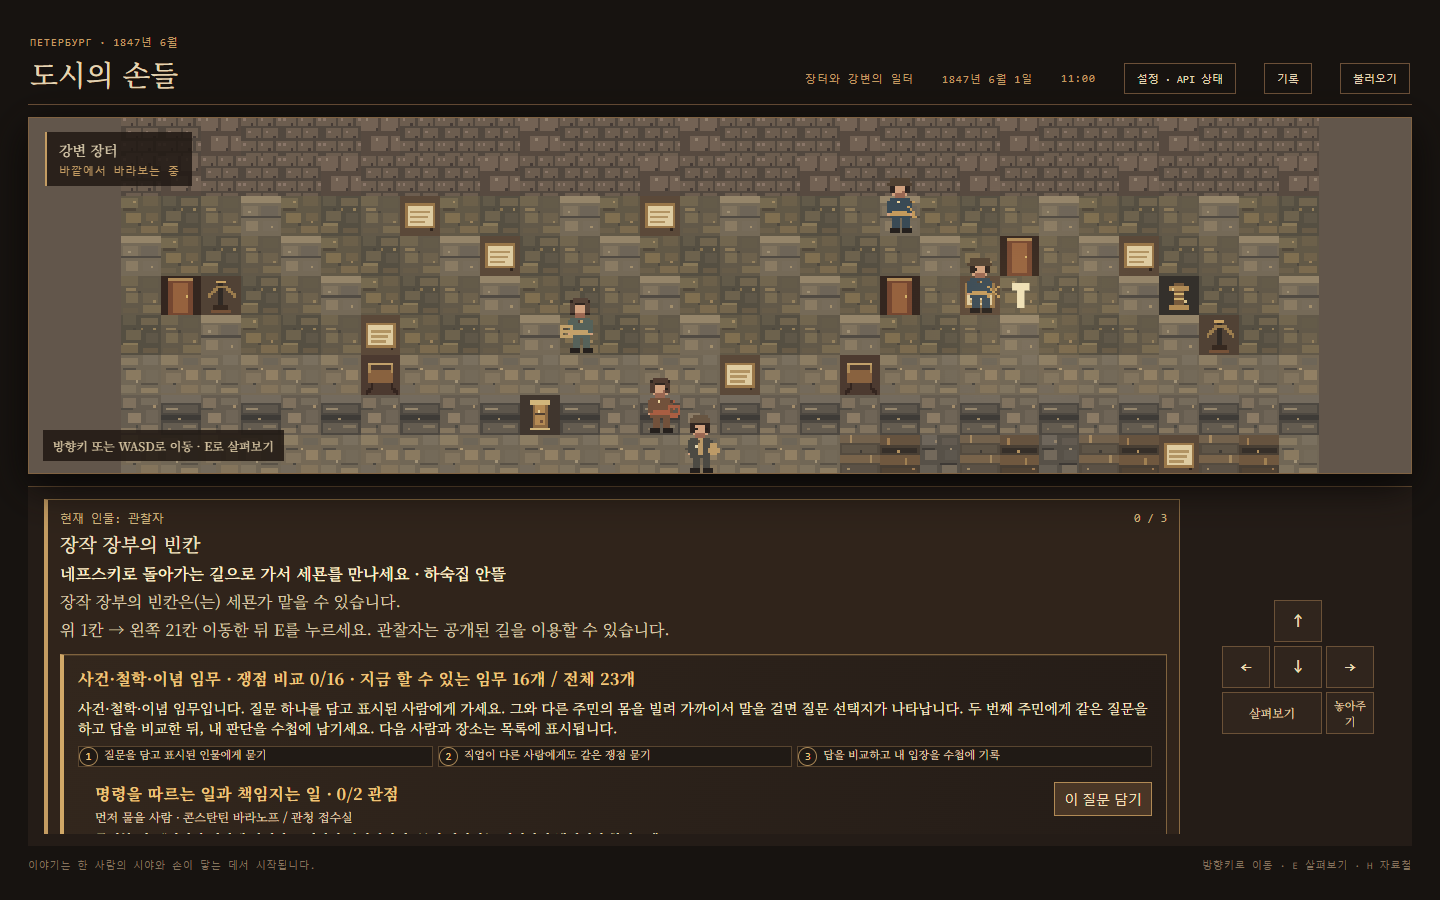
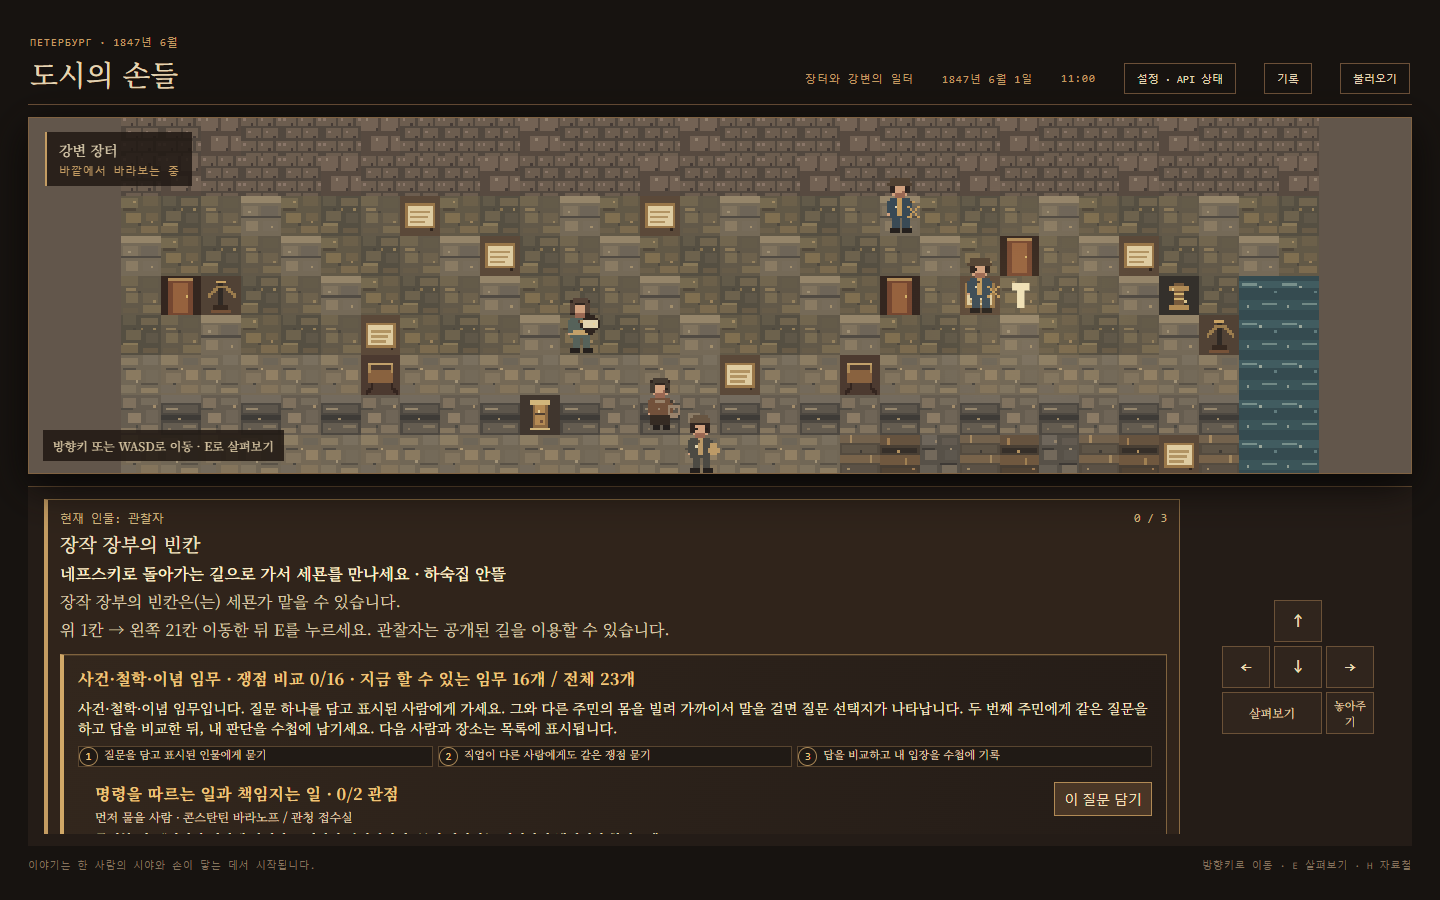
Improve V36 resident role readability

Changed region(s): [[0.8438, 0.28, 0.9375, 0.5289], [0.4375, 0.4356, 0.4688, 0.4978], [0.375, 0.3422, 0.4375, 0.3733]]

diff --git a/rpg/engine/renderer.js b/rpg/engine/renderer.js
@@ -112,7 +112,7 @@ export function createRenderer(canvas, assets) {
       const active = state.player.embodiment === card.id;
       const frameCount = atlas.framesPerDirection ?? 3, frameWidth = atlas.frameWidth ?? 16, frameHeight = atlas.frameHeight ?? 24;
       const frame = !reducedMotion && active && time - lastMoveAt < 360 ? Math.floor(time / 120) % frameCount : 0;
-      const dir = atlas.directionRows?.[host.facing] ?? ({ down: 0, up: 1, left: 2, right: 3 })[host.facing] ?? 0, px = ox + host.position.x * tile * scale, py = oy + host.position.y * tile * scale;
+      const dir = atlas.directionRows?.[host.facing] ?? ({ down: 0, up: 1, left: 2, right: 3 })[host.facing] ?? 0, px = ox + host.position.x * tile * scale, tileY = oy + host.position.y * tile * scale, py = Math.max(tileY, oy + 8 * scale);
       if (sprite.complete && sprite.naturalWidth) ctx.drawImage(sprite, frame * frameWidth, dir * frameHeight, frameWidth, frameHeight, px, py - 8 * scale, frameWidth * scale, frameHeight * scale);
       if (state.player.embodiment === card.id) { ctx.strokeStyle = '#f2d38b'; ctx.lineWidth = 1; ctx.beginPath(); ctx.ellipse(px + 8 * scale, py + 15 * scale, 8 * scale, 3 * scale, 0, 0, Math.PI * 2); ctx.stroke(); }
     }

diff --git a/docs/v36/INDEPENDENT_REVIEW_P1_FOLLOWUP.md b/docs/v36/INDEPENDENT_REVIEW_P1_FOLLOWUP.md
@@ -65,3 +65,9 @@ Reviewer: one independent subagent, read-only critique, 2026-11-02. This is a sc
 - Replaced 30 of those portraits with original, individually designed fictional faces, hair silhouettes, facial features, expressions, and clothing shapes. These are game characters, not historical likenesses or claims about typical dress. Five publication/event references attached to fictional portraits were moved from `sourceIds` to `contextSourceIds`; visual-source checks now reject that category error.
 - The independent post-fix review at actual 64×64 size confirmed that the formerly flagged seven faces and five simple portraits now read as character-specific, with no remaining obvious generic portrait placeholder. `npm run v36-visual-kit` decodes every sprite and portrait and confirms all 36 interior 20×17px eyes/nose/mouth crops differ. The pixel check is only a regression guard; the contact sheet remains the human visual evidence.
 - Still unresolved: small-map role readability of the 16×24 sprites, direct source-by-source review of 28 character depictions, and 80 of 85 environment tiles. The new faces do not resolve clothing/period-evidence gaps. V36 asset/history status remains NO.
+
+## Map-scale role marker follow-up (2026-11-05)
+
+- Added gameplay-only role markers to 12 residents. Their first 5×8 design was expanded to 8×8 after review found the hand props too small. The data, SVG overlays, provenance notes, and audit keep these marked as readability icons, never historical evidence about carried objects or clothing. SVG generation is idempotent.
+- The latest independent review confirms Sofia's red proof marks, Sergey's gold key, and the north-edge screenshot improved. A real browser check clicked north from `(11,9)` to the northern walkable tile `(11,8)`; a second click was blocked by the collision edge, with zero page errors. Evidence: `current-audit/screenshots/NORTH_EDGE_BROWSER_CHECK.json` and `current-audit/screenshots/nevsky-north-walkable-boundary.png`.
+- Role distinction remains partial at native size: Alexei/Pavel, Konstantin/Darya, Sofia/Ekaterina, and Lev/Elizaveta can still read as similar paper/book roles in the actual map. Further distinct silhouettes and another independent review are needed. Historical costume/source review for 28 residents and 80/85 environment tiles remains a separate unresolved evidence gap; V36 asset/history status remains NO.
